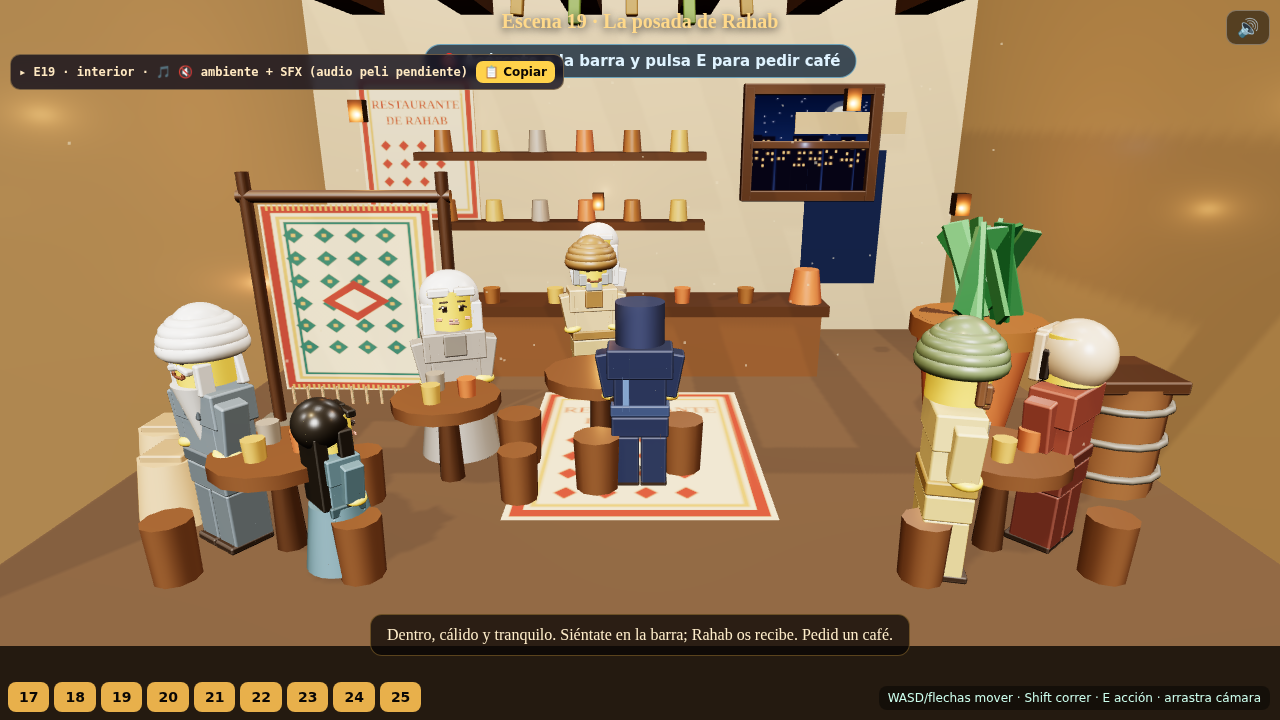
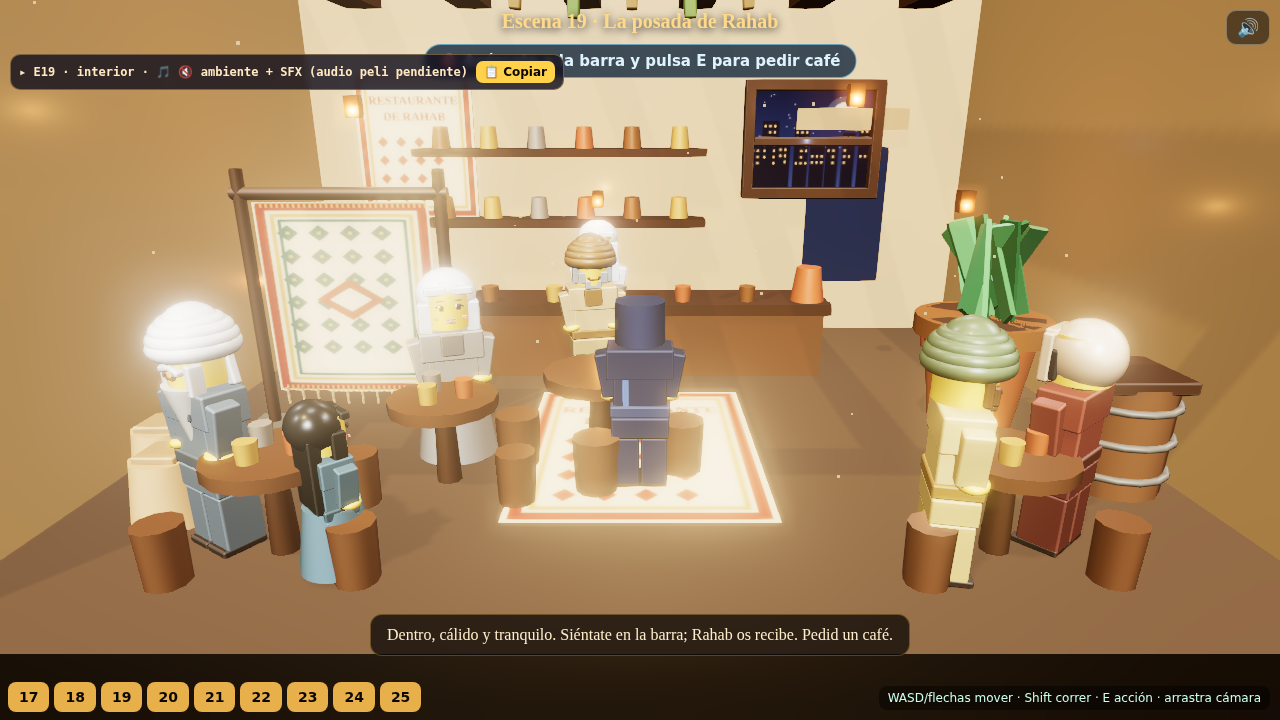
Extender "el precioso" a 10-15: enchufar setupPreciousRender al preview
Orden del cerebro (aprobada por el usuario): extender el acabado "precioso" a
todos los tramos.

- Traído core/PreciousRender.ts desde la rama del muñequero (munecos-ifepfa),
  sin modificar -> look compartido idéntico al resto de tramos. Depende solo de
  Quality.ts (ya presente).
- Enchufado en preview.ts como el 15-20: fx = setupPreciousRender(renderer,
  scene, camera, { ibl:false }); fx.render() en el bucle (en vez de
  renderer.render) y fx.setSize en resize.
- ibl:false porque el preview ya gestiona scene.environment por-escena en
  applyLighting (interior cálido / calle nocturna); el resto del precioso
  (ACES + bloom + SMAA + OutputPass) entra entero.
- Rendimiento móvil: el helper trae modo LITE automático (IS_MOBILE via
  Quality.ts): sin SMAA, bloom aligerado, pixelRatio bajo. No forzado.

Verificado: compila 0 err (56 módulos), 0 errores de consola (9 escenas
headless). Capturas tracked regeneradas con el nuevo look (bloom en ventana,
faroles y fuego + bordes suavizados).

Claude-Session: https://claude.ai/code/session_015WLDEivXXZbK5n9bBPcdg3

diff --git a/mundo-ladrillos/src/core/PreciousRender.ts b/mundo-ladrillos/src/core/PreciousRender.ts
@@ -1,0 +1,113 @@
+import * as THREE from 'three';
+import { RoomEnvironment } from 'three/examples/jsm/environments/RoomEnvironment.js';
+import { EffectComposer } from 'three/examples/jsm/postprocessing/EffectComposer.js';
+import { RenderPass } from 'three/examples/jsm/postprocessing/RenderPass.js';
+import { UnrealBloomPass } from 'three/examples/jsm/postprocessing/UnrealBloomPass.js';
+import { OutputPass } from 'three/examples/jsm/postprocessing/OutputPass.js';
+import { SMAAPass } from 'three/examples/jsm/postprocessing/SMAAPass.js';
+import { QUALITY, IS_MOBILE } from './Quality';
+
+/**
+ * PreciousRender — el acabado "precioso" empaquetado para enchufar en 1 línea.
+ *
+ * Reúne lo que hace bonito el juego sin salir de la web/tiempo real:
+ *   · IBL (RoomEnvironment vía PMREM) → el plástico refleja y brilla
+ *   · tono cinemático ACES + exposición + sombras suaves
+ *   · post-proceso: bloom (UnrealBloomPass) + SMAA (antialias) + OutputPass
+ * Respeta `Quality.ts`: en móvil baja el pixelRatio, apaga el IBL/PMREM
+ * (`QUALITY.envMap`) y usa sombras más baratas, para que no se cuelgue.
+ *
+ * USO (1 línea + render + resize):
+ *   const fx = setupPreciousRender(renderer, scene, camera);
+ *   // en el bucle:            fx.render();          // en vez de renderer.render(scene,camera)
+ *   // en 'resize':            fx.setSize(innerWidth, innerHeight);
+ *   // al desmontar la escena: fx.dispose();
+ *
+ * Los MATERIALES siguen siendo del que llama: para lucir el brillo, usa
+ * `PlasticMaterialFactory` con clearcoat + envMapIntensity (ya lo hace). Las
+ * LUCES y sus sombras también las pone el tramo; este helper solo activa
+ * `renderer.shadowMap` y el tono/post-proceso.
+ */
+
+export interface PreciousOptions {
+  /** Exposición del tono ACES. Def. 1.08. */
+  exposure?: number;
+  /** Bloom (brillo cinemático). Def. strength 0.4 / radius 0.6 / threshold 0.82. */
+  bloom?: { strength?: number; radius?: number; threshold?: number };
+  /** Fuerza el IBL on/off. Por defecto sigue `QUALITY.envMap` (off en móvil). */
+  ibl?: boolean;
+  /** Sigma del PMREM (suavizado del entorno). Def. 0.03. */
+  iblSigma?: number;
+  /** Antialias SMAA. Def. true (se salta en modo lite). */
+  smaa?: boolean;
+  /**
+   * Modo "lite" adaptativo para móvil (por defecto = IS_MOBILE): salta SMAA y
+   * aligera el bloom para que no ahogue el teléfono. Fuérzalo con true/false.
+   */
+  lite?: boolean;
+}
+
+export interface PreciousHandle {
+  composer: EffectComposer;
+  bloomPass: UnrealBloomPass;
+  lite: boolean;   // true si va en modo ligero (móvil): sin SMAA, bloom aligerado, sin IBL
+  render(): void;
+  setSize(w: number, h: number): void;
+  dispose(): void;
+}
+
+export function setupPreciousRender(
+  renderer: THREE.WebGLRenderer,
+  scene: THREE.Scene,
+  camera: THREE.Camera,
+  opts: PreciousOptions = {}
+): PreciousHandle {
+  const exposure = opts.exposure ?? 1.08;
+  const lite = opts.lite ?? IS_MOBILE;
+  // En lite aligeramos el bloom (kernel más pequeño y algo menos de fuerza)
+  const base = { strength: 0.4, radius: 0.6, threshold: 0.82 };
+  const bloomCfg = lite
+    ? { strength: 0.3, radius: 0.4, threshold: 0.85, ...opts.bloom }
+    : { ...base, ...opts.bloom };
+  const useIbl = opts.ibl ?? QUALITY.envMap;      // ya off en móvil (Quality)
+  const useSmaa = (opts.smaa ?? true) && !lite;   // SMAA se salta en móvil (caro)
+
+  // --- Ajustes del renderer (tono cinemático + sombras suaves) ---
+  renderer.setPixelRatio(QUALITY.pixelRatio);
+  renderer.outputColorSpace = THREE.SRGBColorSpace;
+  renderer.toneMapping = THREE.ACESFilmicToneMapping;
+  renderer.toneMappingExposure = exposure;
+  renderer.shadowMap.enabled = QUALITY.shadows;
+  renderer.shadowMap.type = QUALITY.envMap ? THREE.PCFSoftShadowMap : THREE.PCFShadowMap;
+
+  // --- IBL: reflejos de estudio suaves (lo que hace brillar el plástico) ---
+  let pmrem: THREE.PMREMGenerator | null = null;
+  if (useIbl) {
+    pmrem = new THREE.PMREMGenerator(renderer);
+    scene.environment = pmrem.fromScene(new RoomEnvironment(), opts.iblSigma ?? 0.03).texture;
+  }
+
+  // --- Post-proceso ---
+  const composer = new EffectComposer(renderer);
+  composer.addPass(new RenderPass(scene, camera));
+  const bloomPass = new UnrealBloomPass(
+    new THREE.Vector2(innerWidth, innerHeight),
+    bloomCfg.strength, bloomCfg.radius, bloomCfg.threshold
+  );
+  composer.addPass(bloomPass);
+  if (useSmaa) composer.addPass(new SMAAPass(innerWidth, innerHeight));
+  composer.addPass(new OutputPass());
+
+  return {
+    composer,
+    bloomPass,
+    lite,
+    render: () => composer.render(),
+    setSize: (w: number, h: number) => composer.setSize(w, h),
+    dispose: () => {
+      composer.dispose();
+      pmrem?.dispose();
+      if (scene.environment) { scene.environment.dispose?.(); scene.environment = null; }
+    }
+  };
+}

diff --git a/mundo-ladrillos/src/scenes/min10/preview/preview.ts b/mundo-ladrillos/src/scenes/min10/preview/preview.ts
@@ -15,6 +15,7 @@ import { ESPIA1_SIGILO, ESPIA2_SIGILO } from '../../min05/skins';
 import { MIN10_SCENES } from '../registry';
 import { Min10Scene, SceneContext, SceneInstance } from '../types';
 import { TAVERN_BOUNDS } from '../props/stage';
+import { setupPreciousRender } from '../../../core/PreciousRender';
 
 /**
  * PREVIEW jugable del tramo MINUTO 10–15 · "LA POSADA DE RAHAB" (escenas 17–25).
@@ -47,6 +48,14 @@ const tpcam = new ThirdPersonCamera(camera, renderer.domElement);
 
 const pmrem = new THREE.PMREMGenerator(renderer);
 const envTex = pmrem.fromScene(new RoomEnvironment(), 0.04).texture;
+
+// ACABADO "PRECIOSO" compartido (orden del cerebro: extenderlo a todos los tramos).
+// setupPreciousRender aporta tono ACES + bloom cinemático + SMAA + OutputPass y
+// respeta Quality.ts (modo LITE automático en móvil: sin SMAA, bloom aligerado y
+// pixelRatio bajo, para no ahogar el teléfono). `ibl: false` porque este preview YA
+// gestiona el entorno por-escena en applyLighting (interior cálido / calle nocturna)
+// y no queremos que el helper pise ese scene.environment.
+const fx = setupPreciousRender(renderer, scene, camera, { ibl: false });
 
 const plastic = new PlasticMaterialFactory();
 const sound = new SoundEngine();
@@ -335,7 +344,7 @@ const startIdx = Number.isFinite(startNum) ? MIN10_SCENES.findIndex((s) => s.num
 loadScene(startIdx >= 0 ? startIdx : 0);
 if (params.get('shot') === '1') startEl.remove();
 
-addEventListener('resize', () => { camera.aspect = innerWidth / innerHeight; camera.updateProjectionMatrix(); renderer.setSize(innerWidth, innerHeight); });
+addEventListener('resize', () => { camera.aspect = innerWidth / innerHeight; camera.updateProjectionMatrix(); renderer.setSize(innerWidth, innerHeight); fx.setSize(innerWidth, innerHeight); });
 
 let last = 0;
 function animate(now: number): void {
@@ -380,7 +389,7 @@ function animate(now: number): void {
   }
 
   if (!cineCam.update(dt, controller.pos.x, controller.pos.z)) tpcam.update(controller.pos);
-  renderer.render(scene, camera);
+  fx.render();                     // ← acabado "precioso" (bloom+SMAA+tono) en vez de renderer.render
 }
 function setBar(b: { wrap: HTMLDivElement; fill: HTMLDivElement; lab: HTMLDivElement }, v?: number): void {
   if (v === undefined || v <= 0.001) { b.wrap.style.display = 'none'; b.lab.style.display = 'none'; return; }

diff --git a/mundo-ladrillos/coordinacion/min10-15.md b/mundo-ladrillos/coordinacion/min10-15.md
@@ -1,5 +1,30 @@
 # Creador 10–15 · "La posada de Rahab" (rama `claude/min-10-15-rajav-jordan`)
 
+## ◀ RESPUESTA A CEREBRO — ✅ "EL PRECIOSO" ENCHUFADO (2026-07-26, noche)
+**Desbloqueado y HECHO.** El helper sí estaba en `munecos-ifepfa` (mi ref remota estaba
+*stale*; el archivo aparece en su HEAD real `73294c8`, no en el commit que yo veía). Lo
+traje tal cual me dijo el usuario:
+`git show <munecos HEAD>:…/core/PreciousRender.ts > src/core/PreciousRender.ts`
+Depende sólo de `Quality.ts` (ya lo tenía). **Sin tocar el helper** (idéntico al del resto
+de tramos → look compartido garantizado).
+
+- ✅ **Enchufado en `preview.ts`** igual que el 15–20: `const fx = setupPreciousRender(
+  renderer, scene, camera, { ibl:false })`; en el bucle **`fx.render()`** en vez de
+  `renderer.render`; en `resize` **`fx.setSize(innerWidth, innerHeight)`**.
+- ✅ **`ibl:false` a propósito:** este preview YA gestiona el entorno por-escena en
+  `applyLighting` (interior cálido con `envTex` / calle nocturna con env=null). Dejar el
+  IBL del helper pisaría ese `scene.environment`. El resto del precioso (tono ACES +
+  **bloom** + **SMAA** + OutputPass) entra entero.
+- ✅ **Rendimiento móvil:** el propio helper trae **modo LITE** automático (`IS_MOBILE`
+  vía `Quality.ts`): sin SMAA, bloom aligerado y `pixelRatio` bajo. No lo fuerzo → respeta
+  el criterio de `Quality`. No ahoga.
+- ✅ **Verificado:** compila 0 err (56 módulos, +post-proceso), **0 errores de consola** en
+  las 9 escenas (headless). **Antes/después** subidos: se nota el bloom en la ventana
+  nocturna, faroles y fuego, con bordes suavizados. Capturas tracked regeneradas con el
+  nuevo look en `preview/capturas/`.
+
+Queda como el resto de tramos. Sigo en el circuito.
+
 ## ◀ RESPUESTA A CEREBRO — ⛔ BLOQUEO: "EXTENDER EL PRECIOSO" (2026-07-26, noche)
 Recibida tu orden **"▶ EXTENDER EL PRECIOSO A TODOS LOS TRAMOS"** (el usuario la aprobó) —
 enchufar `setupPreciousRender` (`core/PreciousRender.ts`) al bucle de render del preview
